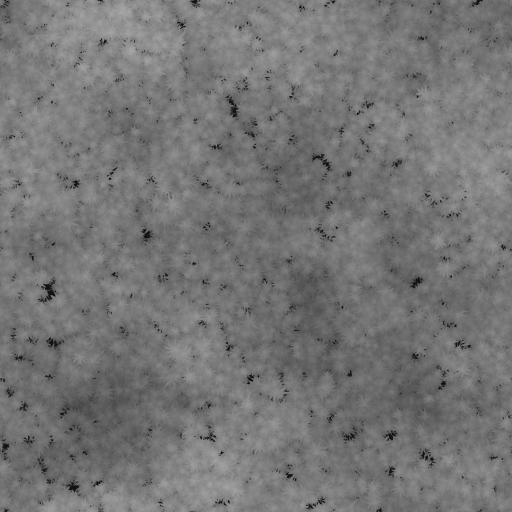
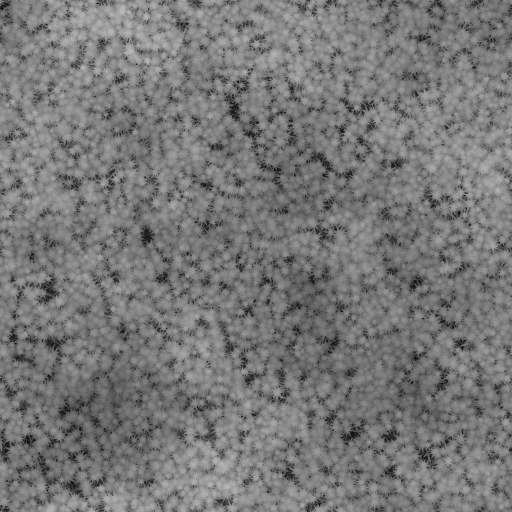
checkpoint layered sphagnum canopy

diff --git a/experiments/materials/mosses/sphagnum/025-statistical-assemblage/generator.ts b/experiments/materials/mosses/sphagnum/025-statistical-assemblage/generator.ts
@@ -224,7 +224,9 @@ function splatEllipse(
       const across = (-px * sine + py * cosine) / acrossRadius
       const r2 = along * along + across * across
       if (r2 >= 1) continue
-      const profile = Math.pow(1 - r2, 0.62)
+      // A superelliptic dome: nearly level around the crown, then an
+      // accelerating descent into a deliberately lower edge altitude.
+      const profile = Math.sqrt(1 - r2 * r2)
       const x = raster.periodic ? wrap(sourceX, raster.width) : sourceX
       insertSurface(raster, y * raster.width + x, floorZ + crownHeight * profile, surface, tissue, pigment)
     }
@@ -266,21 +268,21 @@ function renderPacket(
 ): void {
   const surface = counters.nextSurface++
   counters.branchPackets++
-  const samples = Math.max(4, Math.ceil(length / 4.2))
+  const samples = Math.max(4, Math.ceil(length / 5.0))
   const step = length / samples
-  const bands = Math.max(3, Math.round(length / (4.4 + 0.8 * event.openness)))
-  const phase = unit(event.id * 43 + packetIndex, 201, seed)
   for (let sample = 0; sample <= samples; sample++) {
     counters.packetSamples++
-    const t = sample / samples
+    const sampleKey = event.id * 131 + packetIndex * 17 + sample
+    const jitter = sample === 0 || sample === samples ? 0 : (unit(sampleKey, 201, seed) - 0.5) * 0.46
+    const t = clamp01((sample + jitter) / samples)
     const point = packetPoint(event, angle, startRadius, length, bend, t)
-    const leafPulse = 0.5 + 0.5 * Math.cos((t * bands + phase) * TAU)
+    const localVariation = unit(sampleKey, 211, seed)
     const taper = Math.sqrt(Math.max(0.08, 1 - Math.pow(t, 2.7)))
-    const localHalfWidth = halfWidth * taper * (0.87 + leafPulse * 0.13)
-    const axialArch = (0.010 + event.verticality * 0.010) * Math.sin(t * Math.PI) -
-      (0.008 + event.verticality * 0.025) * t
-    const microRise = leafPulse * 0.011
-    const crown = (0.055 + event.density * 0.022 + event.verticality * 0.035) * (0.97 - 0.15 * t)
+    const localHalfWidth = halfWidth * taper * (0.88 + localVariation * 0.18)
+    const axialArch = (0.014 + event.verticality * 0.018) * Math.sin(t * Math.PI) -
+      (0.018 + event.verticality * 0.045) * t
+    const microRise = (localVariation - 0.5) * 0.007
+    const crown = (0.071 + event.density * 0.028 + event.verticality * 0.050) * (0.98 - 0.18 * t)
     const peakZ = event.baseZ + zOffset + axialArch + microRise
     const floorZ = peakZ - crown
     const buriedAge = Math.max(0, -zOffset)
@@ -290,8 +292,8 @@ function renderPacket(
       raster,
       point.x,
       point.y,
-      Math.max(1.25, step * 0.74),
-      Math.max(0.92, localHalfWidth),
+      Math.max(1.5, step * (1.18 + unit(sampleKey, 221, seed) * 0.22)),
+      Math.max(0.92, localHalfWidth * 0.82),
       point.tangent,
       floorZ,
       crown,
@@ -299,16 +301,45 @@ function renderPacket(
       freshness,
       localPigment,
     )
+
+    // Sphagnum branch leaves are imbricate hoods around a continuous branch,
+    // not evenly spaced transverse ribs. A sparse, one-sided spiral sample
+    // perturbs the silhouette and height without becoming a fern ladder.
+    if (sample > 0 && sample < samples && unit(sampleKey, 231, seed) < 0.72) {
+      const side = unit(sampleKey, 241, seed) < 0.5 ? -1 : 1
+      const leafAngle = point.tangent + side * (0.42 + unit(sampleKey, 251, seed) * 0.54)
+      const sideOffset = side * localHalfWidth * (0.24 + unit(sampleKey, 261, seed) * 0.22)
+      const forwardOffset = localHalfWidth * (0.05 + unit(sampleKey, 271, seed) * 0.16)
+      const leafX = point.x - Math.sin(point.tangent) * sideOffset + Math.cos(point.tangent) * forwardOffset
+      const leafY = point.y + Math.cos(point.tangent) * sideOffset + Math.sin(point.tangent) * forwardOffset
+      const leafAlong = localHalfWidth * (0.66 + unit(sampleKey, 281, seed) * 0.52)
+      const leafAcross = localHalfWidth * (0.30 + unit(sampleKey, 291, seed) * 0.17)
+      const leafCrown = crown * (0.58 + unit(sampleKey, 301, seed) * 0.18)
+      splatEllipse(
+        raster,
+        leafX,
+        leafY,
+        Math.max(1.15, leafAlong),
+        Math.max(0.78, leafAcross),
+        leafAngle,
+        peakZ - leafCrown * 0.82,
+        leafCrown,
+        surface,
+        clamp01(freshness + 0.025),
+        localPigment,
+      )
+    }
   }
 }
 
 function renderCapitulum(raster: Raster, event: StructuralEvent, seed: number, counters: Counters): void {
   counters.capitula++
-  const branchCount = Math.max(10, Math.min(17, Math.round(11.2 + event.density * 4.2 - event.openness * 1.0)))
+  const branchCount = Math.max(7, Math.min(11, Math.round(7.0 + event.density * 3.0 + event.openness * 1.4)))
   const weights = new Float32Array(branchCount)
   let weightSum = 0
   for (let branch = 0; branch < branchCount; branch++) {
-    const weight = 0.68 + unit(event.id * 19 + branch, 301, seed) * 0.72
+    const gapMode = unit(event.id * 19 + branch, 321, seed)
+    const weight = 0.52 + Math.pow(gapMode, 1.35) * 1.02
     weights[branch] = weight
     weightSum += weight
   }
@@ -317,46 +348,131 @@ function renderCapitulum(raster: Raster, event: StructuralEvent, seed: number, c
   for (let branch = 0; branch < branchCount; branch++) {
     const angleFraction = (cumulative + weights[branch]! * 0.5) / weightSum
     cumulative += weights[branch]!
-    const directionalBias = event.asymmetry * Math.cos(angleFraction * TAU - event.phase) * 0.13
+    const directionalBias = event.asymmetry * Math.cos(angleFraction * TAU - event.phase) * 0.22
     const angle = event.phase + angleFraction * TAU + directionalBias
-    const randomLength = 0.66 + unit(event.id * 23 + branch, 331, seed) * 0.52
-    const length = event.size * randomLength * (0.62 + event.openness * 0.45)
-    const halfWidth = event.size * (0.140 + event.density * 0.048) *
+    const randomLength = 0.65 + unit(event.id * 23 + branch, 331, seed) * 0.46
+    const length = event.size * randomLength * (0.60 + event.openness * 0.35)
+    const halfWidth = event.size * (0.095 + event.density * 0.038) *
       (0.84 + unit(event.id * 29 + branch, 351, seed) * 0.28)
     const bend = (event.curvature * 0.08 + unit(event.id * 31 + branch, 371, seed) * 0.18 - 0.09) * length
-    const startRadius = event.size * (0.055 + event.density * 0.040) + unit(event.id + branch, 391, seed) * 0.55
+    const startRadius = event.size * (0.038 + event.density * 0.026) + unit(event.id + branch, 391, seed) * 0.45
     const zOffset = 0.008 + event.verticality * 0.050 +
       (unit(event.id * 37 + branch, 411, seed) - 0.5) * 0.046
     renderPacket(raster, event, angle, length, halfWidth, startRadius, bend, zOffset, seed, branch, counters)
   }
 
-  // Young compact packets fill the capitulum without introducing a disc or a
-  // hidden substrate. They are branches from the same continuously ranked event.
-  const innerCount = 6 + Math.round(event.density * 3)
+  // Young hooded leaves form an irregular raised blossom. They remain
+  // individually height-resolved instead of becoming either a central disc or
+  // another set of miniature radial arms.
+  const innerCount = 13 + Math.round(event.density * 7 + event.verticality * 2)
+  const goldenAngle = Math.PI * (3 - Math.sqrt(5))
   for (let inner = 0; inner < innerCount; inner++) {
-    const angle = event.phase + (inner / innerCount) * TAU + (unit(event.id * 41 + inner, 431, seed) - 0.5) * 0.65
-    const length = event.size * (0.22 + unit(event.id + inner, 451, seed) * 0.22)
-    const halfWidth = event.size * (0.150 + event.density * 0.052)
-    const bend = (unit(event.id * 43 + inner, 471, seed) - 0.5) * length * 0.12
-    const innerRise = 0.034 + event.verticality * 0.060 +
-      (unit(event.id * 47 + inner, 477, seed) - 0.5) * 0.018
-    renderPacket(raster, event, angle, length, halfWidth, 0.3, bend, innerRise, seed, 32 + inner, counters)
+    const leafKey = event.id * 97 + inner
+    const order = (inner + 0.5) / innerCount
+    const radialNorm = Math.pow(order, 0.72)
+    const radial = 0.035 + radialNorm * 0.305 * (0.90 + event.density * 0.13)
+    const radialAngle = event.phase + inner * goldenAngle +
+      (unit(leafKey, 441, seed) - 0.5) * (0.16 + event.openness * 0.10)
+    const leafAngle = radialAngle + (unit(leafKey, 451, seed) - 0.5) * 0.38
+    const cx = event.x + Math.cos(radialAngle) * event.size * radial
+    const cy = event.y + Math.sin(radialAngle) * event.size * radial
+    const leafAlong = event.size * (0.075 + radialNorm * 0.095 + unit(leafKey, 461, seed) * 0.035)
+    const leafAcross = leafAlong * (0.34 + unit(leafKey, 471, seed) * 0.17)
+    const nonlinearFall = Math.pow(radialNorm, 2.4)
+    const innerRise = 0.085 + event.verticality * 0.135 -
+      (0.055 + event.verticality * 0.070) * nonlinearFall +
+      (unit(leafKey, 481, seed) - 0.5) * 0.014
+    const crown = 0.065 + event.density * 0.025 + event.verticality * 0.040
+    const surface = counters.nextSurface++
+    counters.branchPackets++
+    counters.packetSamples++
+    splatEllipse(
+      raster,
+      cx,
+      cy,
+      leafAlong,
+      leafAcross,
+      leafAngle,
+      event.baseZ + innerRise - crown,
+      crown,
+      surface,
+      clamp01(event.vitality * 0.68 + (1 - radial) * 0.24 + 0.09),
+      clamp01(event.pigment - 0.055 * (1 - radial)),
+    )
   }
 
-  // A Sphagnum shoot does not end at the visible capitulum. Spreading and
-  // pendent branches descend through a continuous range of lower heights.
-  // They are distinct occluding packets, not a synthetic under-layer, and are
-  // seen only through openings left by the crowded upper canopy.
-  const lowerCount = 2 + (unit(event.id, 481, seed) > 0.56 ? 1 : 0)
-  for (let lower = 0; lower < lowerCount; lower++) {
-    const angle = event.phase + (lower + 0.35) / lowerCount * TAU +
-      (unit(event.id * 67 + lower, 483, seed) - 0.5) * 0.62
-    const length = event.size * (1.02 + unit(event.id * 71 + lower, 485, seed) * 0.72)
-    const halfWidth = event.size * (0.070 + event.density * 0.030) *
-      (0.86 + unit(event.id + lower, 487, seed) * 0.26)
-    const bend = (event.curvature * 0.15 + unit(event.id * 73 + lower, 489, seed) * 0.28 - 0.14) * length
-    const zOffset = -0.060 - event.verticality * 0.040 - unit(event.id * 79 + lower, 491, seed) * 0.090
-    renderPacket(raster, event, angle, length, halfWidth, 0.4, bend, zOffset, seed, 48 + lower, counters)
+  // The approved capitulum is only the shoot apex. Below it, successive
+  // fascicles continue down the same stem: typically two or three spreading
+  // branches plus one or two slender pendent branches. Model several such
+  // cohorts at continuously descending heights so a canopy opening reveals
+  // older plant structure rather than an artificial zero-height floor.
+  const lowerTierCount = 4
+  for (let tier = 0; tier < lowerTierCount; tier++) {
+    const tierKey = event.id * 83 + tier
+    const isCollapsedTier = tier === lowerTierCount - 1
+    const tierPhase = event.phase + (tier + 1) * goldenAngle +
+      (unit(tierKey, 483, seed) - 0.5) * 0.42
+    const tierDepth = 0.058 + tier * (0.052 + event.verticality * 0.010) +
+      unit(tierKey, 485, seed) * 0.034
+
+    const spreadingCount = isCollapsedTier ? 3 : 2 + (unit(tierKey, 487, seed) > 0.58 ? 1 : 0)
+    for (let spreading = 0; spreading < spreadingCount; spreading++) {
+      const branchKey = tierKey * 5 + spreading
+      const angle = tierPhase + spreading / spreadingCount * TAU +
+        (unit(branchKey, 489, seed) - 0.5) * 0.58
+      const length = event.size * (isCollapsedTier ? 1.22 : 1) * (
+        1.04 + tier * 0.075 + unit(branchKey, 491, seed) * 0.66
+      )
+      const halfWidth = event.size * (0.066 + event.density * 0.029) *
+        (0.84 + unit(branchKey, 493, seed) * 0.30) * (isCollapsedTier ? 1.34 : 1)
+      const bend = (
+        event.curvature * 0.15 + unit(branchKey, 495, seed) * 0.30 - 0.15
+      ) * length
+      const zOffset = -tierDepth - event.verticality * 0.022 -
+        unit(branchKey, 497, seed) * (0.036 + tier * 0.006)
+      renderPacket(
+        raster,
+        event,
+        angle,
+        length,
+        halfWidth,
+        event.size * 0.018,
+        bend,
+        zOffset,
+        seed,
+        64 + tier * 8 + spreading,
+        counters,
+      )
+    }
+
+    // Pendent branches hug the stem in three dimensions. Their top-down
+    // projection is therefore shorter and narrower than a spreading branch,
+    // but it supplies real low tissue near the centre of an open capitulum.
+    const pendentCount = 1 + (unit(tierKey, 499, seed) > 0.63 ? 1 : 0)
+    for (let pendent = 0; pendent < pendentCount; pendent++) {
+      const branchKey = tierKey * 7 + pendent
+      const angle = tierPhase + (pendent + 0.37) / pendentCount * TAU +
+        (unit(branchKey, 501, seed) - 0.5) * 0.74
+      const length = event.size * (0.40 + tier * 0.035 + unit(branchKey, 503, seed) * 0.38)
+      const halfWidth = event.size * (0.046 + event.density * 0.022) *
+        (0.84 + unit(branchKey, 505, seed) * 0.26)
+      const bend = (event.curvature * 0.10 + unit(branchKey, 507, seed) * 0.22 - 0.11) * length
+      const zOffset = -tierDepth - 0.026 - event.verticality * 0.030 -
+        unit(branchKey, 509, seed) * (0.040 + tier * 0.008)
+      renderPacket(
+        raster,
+        event,
+        angle,
+        length,
+        halfWidth,
+        event.size * 0.010,
+        bend,
+        zOffset,
+        seed,
+        96 + tier * 4 + pendent,
+        counters,
+      )
+    }
   }
 }
 

diff --git a/experiments/materials/mosses/sphagnum/025-statistical-assemblage/qa.ts b/experiments/materials/mosses/sphagnum/025-statistical-assemblage/qa.ts
@@ -1,0 +1,90 @@
+import { mkdirSync } from 'node:fs'
+import path from 'node:path'
+import { chromium, type Page } from 'playwright'
+
+const id = '025-statistical-assemblage'
+const base = process.env['GC_BASE_URL'] ?? 'http://127.0.0.1:5175'
+const outDir = path.join(import.meta.dirname, 'captures')
+mkdirSync(outDir, { recursive: true })
+
+const browser = await chromium.launch({
+  headless: true,
+  channel: 'chrome',
+  args: ['--enable-unsafe-webgpu', '--enable-features=WebGPU', '--hide-scrollbars'],
+})
+const page = await browser.newPage({ viewport: { width: 1280, height: 900 } })
+const errors: string[] = []
+page.on('console', (message) => {
+  if (message.type() === 'error') errors.push(message.text())
+})
+page.on('pageerror', (error) => errors.push(error.message))
+
+async function waitForReport(p: Page): Promise<number> {
+  const started = Date.now()
+  await p.waitForFunction(
+    (experimentId) =>
+      (globalThis as typeof globalThis & { __materialReports?: Record<string, unknown> }).__materialReports?.[
+        experimentId as string
+      ] !== undefined,
+    id,
+    { timeout: 300_000 },
+  )
+  await p.waitForTimeout(600)
+  return Date.now() - started
+}
+
+async function runner(
+  name: string,
+  obj: 'sphere' | 'cube-edge' | 'plane',
+  tileScale: 1 | 8,
+  reliefGain: 1.2 | 2,
+  cam: 'three-quarter' | 'macro' = 'three-quarter',
+) {
+  const url = `${base}/#/run/${id}?det=1&t=2&cam=${cam}&obj=${obj}` +
+    `&p.texPx=2048&p.tileScale=${tileScale}&p.reliefGain=${reliefGain}` +
+    '&p.normalStrength=0.92&p.microShadow=1&p.stateVariation=0.72'
+  await page.goto(url, { waitUntil: 'domcontentloaded' })
+  const elapsedMs = await waitForReport(page)
+  const toasts = await page.locator('.toast').allTextContents()
+  await page.evaluate(() => {
+    for (const selector of ['.hud', '.pane-holder', '.topbar', '.toolbar', '.pips', '.run-bar', '.run-controls', '.tp-dfwv']) {
+      for (const node of Array.from(document.querySelectorAll(selector))) (node as HTMLElement).style.display = 'none'
+    }
+  })
+  const output = path.join(outDir, `${name}.png`)
+  await page.locator('canvas').first().screenshot({ path: output })
+  return { name, url: page.url(), output, elapsedMs, toasts }
+}
+
+const runCaptures = [
+  await runner('qa-plane-scale1-macro', 'plane', 1, 1.2, 'macro'),
+  await runner('qa-sphere-scale1', 'sphere', 1, 1.2),
+  await runner('qa-sphere-scale8-gain2', 'sphere', 8, 2, 'macro'),
+  await runner('qa-cube-scale1', 'cube-edge', 1, 1.2),
+  await runner('qa-cube-scale8-gain2', 'cube-edge', 8, 2, 'macro'),
+]
+
+await page.goto(
+  `${base}/#/material/${id}?p.texPx=2048&p.tileScale=1&p.reliefGain=2&p.normalStrength=0.92&p.microShadow=1`,
+  { waitUntil: 'domcontentloaded' },
+)
+const inspectorElapsedMs = await waitForReport(page)
+const channelCaptures: Array<{ node: string; output: string }> = []
+for (const nodeId of ['height', 'albedo', 'normal', 'ao']) {
+  const node = page.locator('.mat-node').filter({ hasText: nodeId }).first()
+  await node.click()
+  await page.waitForTimeout(250)
+  const output = path.join(outDir, `qa-raw-${nodeId}.png`)
+  await page.locator('canvas.mat-canvas').screenshot({ path: output })
+  channelCaptures.push({ node: nodeId, output })
+}
+const report = await page.evaluate((experimentId) => {
+  const value = (globalThis as typeof globalThis & {
+    __materialReports?: Record<string, { ok: boolean; textureBytes: number; issues: unknown[] }>
+  }).__materialReports?.[experimentId as string]
+  return value && { ok: value.ok, textureBytes: value.textureBytes, issues: value.issues }
+}, id)
+const inspectorToasts = await page.locator('.toast').allTextContents()
+
+console.log(JSON.stringify({ runCaptures, channelCaptures, inspectorElapsedMs, errors, inspectorToasts, report }, null, 2))
+await browser.close()

diff --git a/experiments/materials/mosses/sphagnum/025-statistical-assemblage/author.ts b/experiments/materials/mosses/sphagnum/025-statistical-assemblage/author.ts
@@ -22,6 +22,10 @@ const result = generateAssemblage(2507)
 const neutral = neutralRgba(result.height, TILE, 35)
 const albedo = albedoRgba(result.descriptor)
 const shaded = shadedRgba(albedo, neutral, result.ao)
+const coverageMask = new Float32Array(result.depthCount.length)
+for (let pixel = 0; pixel < coverageMask.length; pixel++) {
+  coverageMask[pixel] = result.depthCount[pixel]! > 0 ? 1 : 0
+}
 const centre = (TILE - 768) >> 1
 const atlas = generateShapeAtlas(2507)
 
@@ -40,6 +44,7 @@ await Promise.all([
   writeFile(path.join(output, 'raw-height.png'), await encodeRgbaPng(TILE, TILE, scalarRgba(result.height))),
   writeFile(path.join(output, 'raw-ao.png'), await encodeRgbaPng(TILE, TILE, scalarRgba(result.ao))),
   writeFile(path.join(output, 'depth-count.png'), await encodeRgbaPng(TILE, TILE, depthCountRgba(result.depthCount))),
+  writeFile(path.join(output, 'coverage-mask.png'), await encodeRgbaPng(TILE, TILE, scalarRgba(coverageMask))),
   writeFile(path.join(output, 'raw-albedo.png'), await encodeRgbaPng(TILE, TILE, albedo)),
   writeFile(path.join(output, 'neutral.png'), await encodeRgbaPng(TILE, TILE, neutral)),
   writeFile(path.join(output, 'shaded.png'), await encodeRgbaPng(TILE, TILE, shaded)),
